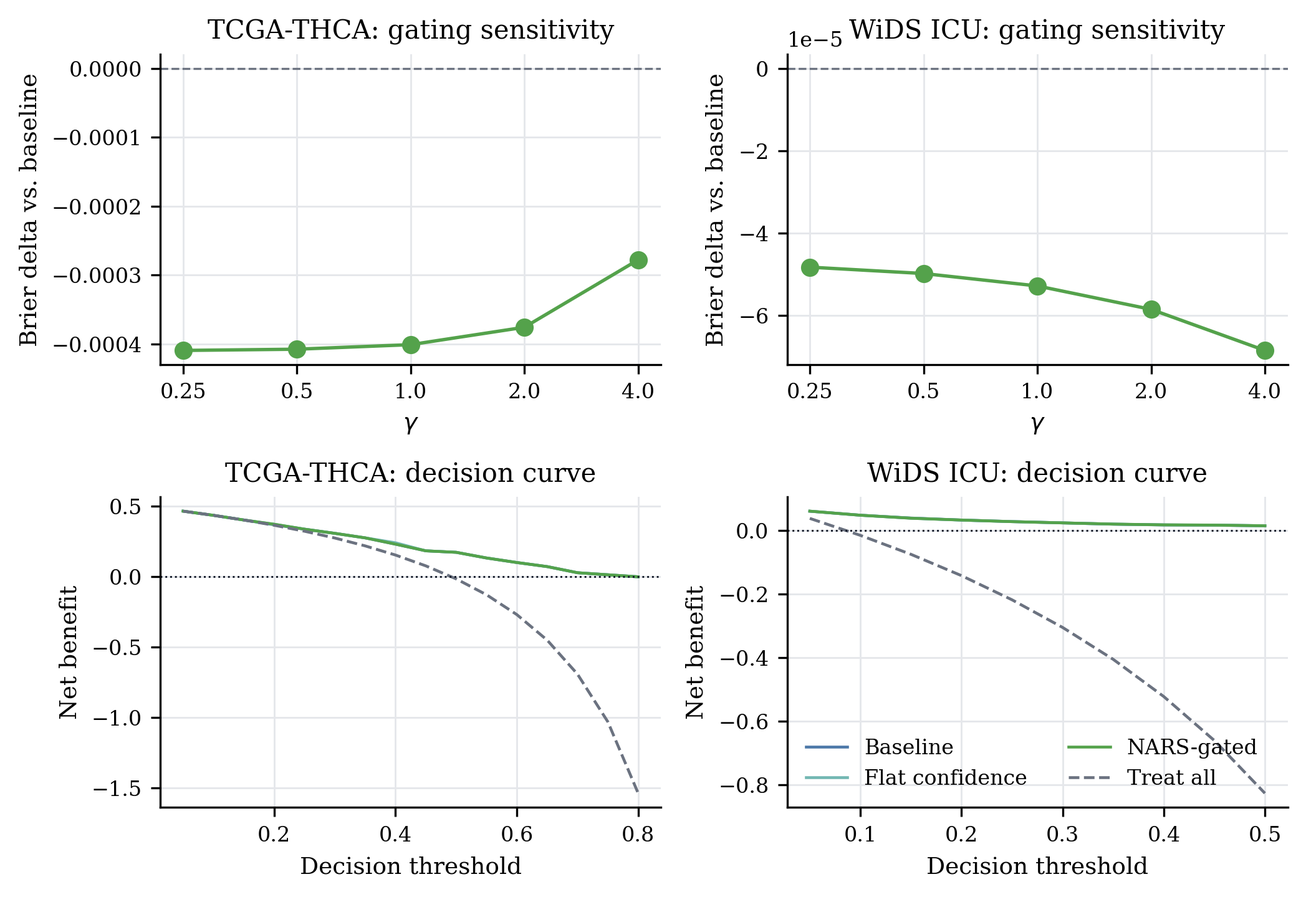
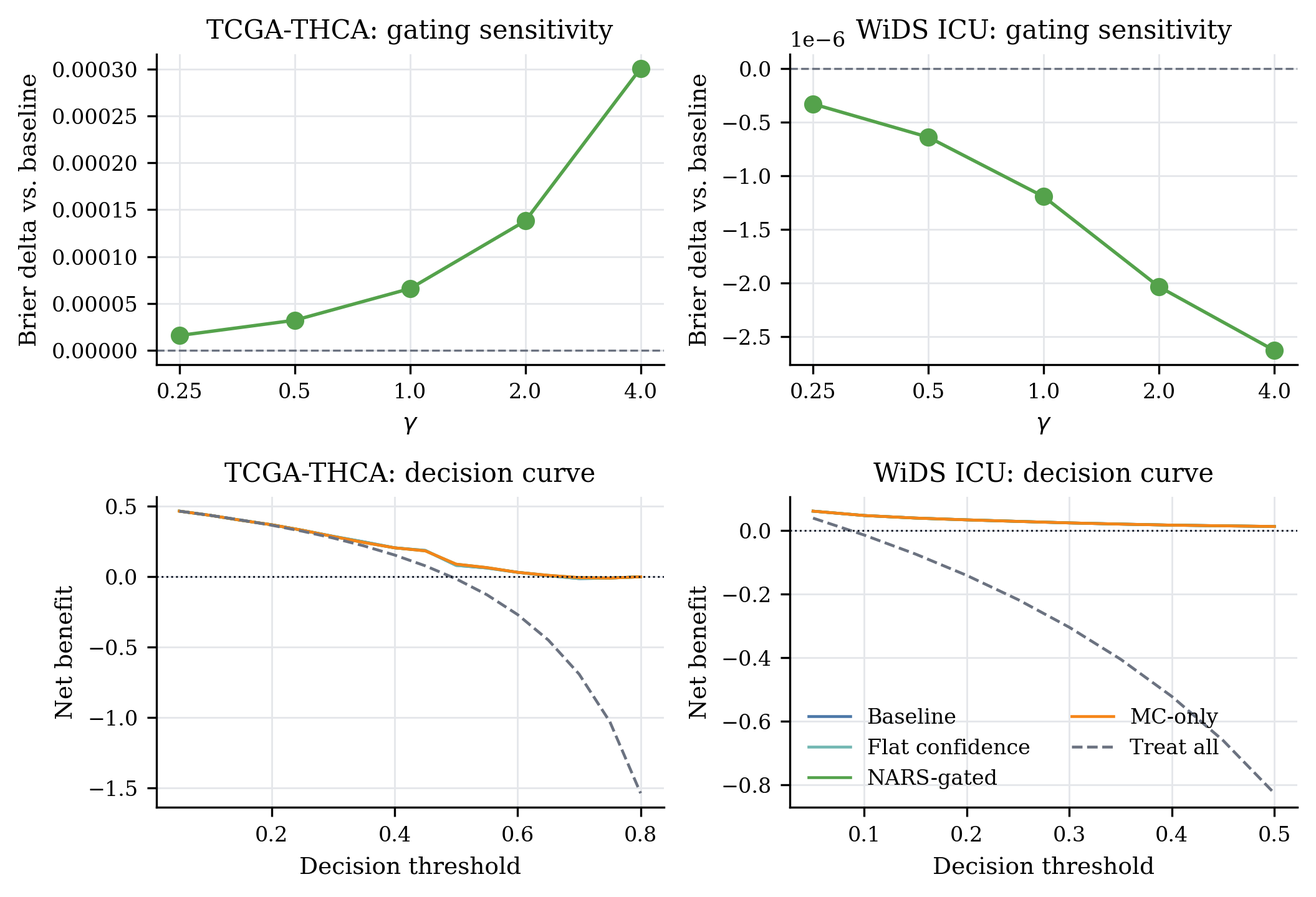
refresh paper with full development results

diff --git a/paper/main.tex b/paper/main.tex
@@ -37,7 +37,7 @@
 \maketitle
 
 \begin{abstract}
-Dynamic evidential routing is an inference-time interface for uncertainty-conditioned symbolic intervention, not a demonstrated clinical performance improvement. Prototype rules revise a heuristic confidence signal used by a transformer readout. A validity audit found that the local TCGA cohort has no recorded mutations in validation or test, and that legacy ungated and gated predictions used different dropout aggregation. Legacy numerical comparisons therefore establish neither held-out genomic fusion nor a gating benefit. The v2 implementation scores all readout gates on identical cached dropout passes, evaluates observed-only predicates, preserves unknown mutation status, and exports every intervention for independent numerical replay. The legacy result tables are retained as descriptive records of the earlier implementation. Population robustness, symbolic necessity, external compatibility, and human oversight benefit require further studies.
+Dynamic evidential routing is an inference-time interface for uncertainty-conditioned symbolic intervention. Prototype rules revise a heuristic confidence signal used by a transformer readout. We evaluate 20 hospital-held-out WiDS fits across two imputers, APACHE inclusion/exclusion, and five training seeds, plus 15 clinical-only, genomic-only, and fused TCGA fits using checksum-pinned public mutation files. Every fit uses matched 50-pass dropout inference with three independent repeats and independently replayable intervention exports. The acquired TCGA test cases include 39 recorded BRAF-positive rule events, while absent variants remain unknown without callable assay evidence. Hierarchical comparisons do not meet the prespecified symbolic Brier benefit of $10^{-4}$; APACHE removal substantially reduces discrimination. Frozen masking and ensemble diagnostics test implementation behavior on development cohorts. External compatibility, clinical rule validity, and reviewer benefit remain unestablished.
 \end{abstract}
 
 \section{Introduction}
@@ -49,7 +49,7 @@ The challenge is that current model components expose different pieces of the pr
 
 We propose dynamic evidential routing as that interface. A neural predictive distribution is first mapped into a two-dimensional truth value $(f,c)$, where frequency $f$ describes the balance of evidence and confidence $c$ describes evidential support \citep{wang1995,wang2006,wang2013}. Explicit clinical rules then revise feature-level truths in the same NAL truth-value space, and the revised confidence values control a normalized attention gate. The signal is a heuristic interface variable; its relationship with errors and evidential support must be measured before it can serve as a trust signal.
 
-We evaluate the interface on two complementary clinical benchmarks. TCGA-THCA exercises a clinical interface, but its held-out mutation inputs contain no recorded positives and cannot test genomic fusion. WiDS exercises scale with feature-specific missingness; the v2 audit measures 10.36\% selected-feature missingness after invalid APACHE probabilities are masked. The contribution is an auditable inference-time interface: neural uncertainty and explicit rules share a truth-value representation, revised confidence can change attention, and the arithmetic is exported. The experiments do not establish a clinical performance improvement, and they do not isolate symbolic revision as the source of any calibration difference.
+We evaluate the interface on two complementary clinical benchmarks. Acquired TCGA-THCA mutation files supply recorded held-out positives, but absence of variants is still unknown without verified callable assays. WiDS exercises scale on held-out hospitals with feature-specific missingness; selected-feature missingness is 10.36\% after invalid APACHE probabilities are masked. The contribution is an auditable inference-time interface: neural uncertainty and explicit rules share a truth-value representation, revised confidence can change attention, and the arithmetic is exported. The experiments do not establish a clinical performance improvement, and they do not isolate symbolic revision as the source of any calibration difference.
 
 Figure~\ref{fig:pipeline} summarizes the inference-time data flow from sparse clinical inputs through uncertainty estimation, NAL-style truth initialization, rule-triggered revision, confidence-gated attention, and trace export.
 
@@ -133,7 +133,7 @@ where $\gamma$ controls the strength of confidence gating. The update preserves 
 
 \subsection{Inference-Time Data Flow}
 
-The inference path has six stages. First, the trained transformer produces a point prediction, feature attention, and token scores. Second, repeated MC-dropout passes estimate predictive and attention variance. Third, the variance-to-confidence initializer in Eq.~\eqref{eq:neural_to_nars} creates feature-level neural truths. Fourth, the symbolic extractor emits every proposition whose condition is true. Fifth, neural and symbolic truths are revised in the shared $(f,c)$ space. Sixth, revised confidence gates attention by Eq.~\eqref{eq:attention_update}; v2 recomputes each cached pass's final logit and averages sigmoid probabilities identically across gate variants, then exports all events. The default intervention changes the token readout, not encoder representations; a separate encoder intervention experiment recomputes those representations. There is no recurrent feedback or convergence loop.
+The inference path has six stages. First, the trained transformer produces a point prediction, feature attention, and token scores. Second, repeated MC-dropout passes estimate predictive and attention variance. Third, the variance-to-confidence initializer in Eq.~\eqref{eq:neural_to_nars} creates feature-level neural truths. Fourth, the symbolic extractor emits every proposition whose condition is true. Fifth, neural and symbolic truths are revised in the shared $(f,c)$ space. Sixth, revised confidence gates attention by Eq.~\eqref{eq:attention_update}; current implementation recomputes each cached pass's final logit and averages sigmoid probabilities identically across gate variants, then exports all events. The default intervention changes the token readout, not encoder representations; a separate encoder intervention experiment recomputes those representations. There is no recurrent feedback or convergence loop.
 
 This staged design keeps the symbolic mechanism outside model training. With $N$ cases, $R$ rule predicates, and $F$ features, predicate evaluation and gating cost $O(NR+NF)$ in the present vectorized implementation. The prototype assigns at most one rule to a logical feature and rejects collisions, so rule ordering cannot silently change a truth value. Larger bases need provenance-aware conflict policies, coverage analysis, and explicit aggregation of compatible or contradictory evidence before same-feature multi-rule revision can be supported.
 
@@ -150,15 +150,15 @@ For a neural estimate $p=0.8$, $\sigma^2=0.05$, and a fired prototype rule $(f_{
 \section{Experimental Setup}
 \label{sec:experiments}
 
-The following setup describes the legacy v1 results; v2 changes preprocessing, split policy, and aggregation. We evaluated two benchmarks with different roles. TCGA-THCA predicts lymph-node metastasis from clinical and somatic-mutation features but the held-out data do not contain genomic observations and cannot test clinical-genomic fusion. The labeled cohort contains 457 cases split into 319 training, 69 validation, and 69 held-out test cases. The processed input has 105 dimensions: 5 scaled clinical numeric features, 50 binary mutation indicators, and 50 one-hot clinical categorical features.
+The current development evaluation fixes source hashes, partitions, rules, and training settings before each fit. WiDS contains 91,713 labeled stays with 65,737 training, 11,751 validation, and 14,225 held-out cases; patient, hospital, and ICU identifiers are disjoint across partitions. Five training seeds are evaluated under each combination of KNN or median imputation and APACHE included or excluded, yielding 20 fits. Removing APACHE leaves 15 encoded features instead of 16; score-only comparators remain available as controls.
 
-WiDS Datathon 2020 predicts in-hospital mortality for ICU encounters and is the primary scale exercise with feature-specific missingness. The run uses 91,713 labeled stays split into 64,199 training, 13,757 validation, and 13,757 held-out test stays, with 16 model input features after preprocessing.
+TCGA contains 457 labeled cases with 319 training, 69 validation, and 69 held-out cases. An immutable GDC manifest pins 498 mutation files by publisher UUID, checksum, and case coverage; 16 expected clinical cases lack file-associated coverage. The fused input has 55 clinical and 100 genomic/unknown-indicator dimensions. Clinical-only, genomic-only, and fused inputs each receive five training seeds with identical partitions. Unknown mutation calls are not converted to negatives; no complete callable panel is verified. This is retrospective post-pathology association, and source-level measurement chronology is unresolved.
 
-All transformer variants use the same trained base architecture: $d_{\text{model}}=64$, four attention heads, two encoder layers, and 50 MC-dropout passes for uncertainty estimation. We compare a random forest, a baseline transformer, flat-confidence gating with $c=0.5$, MC-confidence-only gating, and NARS-gated symbolic revision. Metrics are AUC, Brier score, expected calibration error (ECE), and accuracy. Bootstrap confidence intervals are reported for AUC, Brier, and ECE.
+All fits use $d_{\mathrm{model}}=64$, four heads, two encoder layers, at most 60 epochs, and validation early stopping with patience 12. Each fit has 50 matched MC-dropout passes and three independent inference repeats. Calibration and classical-model selection use validation data only. These already inspected cohorts constitute development evaluation, not prospective confirmation or independent-cohort validation.
 
 \subsection{Baselines and Controls}
 
-The baseline transformer tests whether the underlying neural architecture is competitive before confidence gating is introduced. A uniform normalized readout gate cancels mathematically. Under matched v2 aggregation it must reproduce ungated predictions within $10^{-7}$. The legacy flat-control differences arise from aggregation, not from adding a gate. The MC-confidence-only ablation uses the neural variance-derived confidence but does not apply symbolic revision. The NARS-gated model adds the symbolic rule path on top of the MC-confidence initializer. This ordering is important: a difference from the baseline alone is not enough to show that symbolic reasoning helped, because confidence gating or regularization may explain the change.
+The baseline transformer tests whether the underlying neural architecture is competitive before confidence gating is introduced. A uniform normalized readout gate cancels mathematically. Under matched current implementation aggregation it must reproduce ungated predictions within $10^{-7}$. The legacy flat-control differences arise from aggregation, not from adding a gate. The MC-confidence-only ablation uses the neural variance-derived confidence but does not apply symbolic revision. The NARS-gated model adds the symbolic rule path on top of the MC-confidence initializer. This ordering is important: a difference from the baseline alone is not enough to show that symbolic reasoning helped, because confidence gating or regularization may explain the change.
 
 The random forest baseline addresses the common tabular-learning concern that tree ensembles can be strong competitors on structured clinical features. It is trained on the same split and post-preprocessing design matrix, so differences cannot be attributed to a different data representation.
 
@@ -166,9 +166,9 @@ The random forest baseline addresses the common tabular-learning concern that tr
 
 Tables~\ref{tab:tcga_results} and \ref{tab:wids_results} do not isolate symbolic revision. The evaluation contract now rescores NAL revision after four changes to the symbolic input: removing every rule, removing one rule at a time, permuting rule assignments across patients, replacing symbolic truth values with random draws, and substituting fixed symbolic priors. Rule removal must reproduce MC-confidence-only gating. Sensitivity scales symbolic confidence and recomputes revision; it does not retune the transformer on test labels. A claim that the symbolic component improves prediction would require the stated rules to separate from MC-confidence-only gating and from these controls. That separation is not a result of the saved runs.
 
-The saved runs still initialize uncertainty with single-seed MC dropout. The implementation can also train a deep ensemble over seeds and compare MC-dropout variance, Bernoulli predictive entropy, and ensemble variance, including how each score ranks threshold errors. Those comparisons are not in the tables.
+Each condition now has a five-model ensemble, MC-dropout variance, predictive entropy, confidence-error diagnostics, and tie-aware selective-risk curves. Common ensemble prediction errors provide the same reference for comparing uncertainty estimators. Hospital, training-seed, and dropout-repeat resampling distinguish these sources of variability; the fixed split does not estimate variability across cohort selections.
 
-Each rule now carries a source note, a provenance identifier, an expert-review status, and a contradiction group. The current predicates are prototype probes and are marked not reviewed. Two rules that share a contradiction group and a target feature are rejected rather than overwritten. No independent cohort is evaluated here. A distribution-shift check can mask encoded features while holding the trained model, preprocessing, rules, gate, and decision threshold fixed. That check is a compatibility test under shift, not external clinical validation.
+Each rule now carries a source note, a provenance identifier, an expert-review status, and a contradiction group. The current predicates are prototype probes and are marked not reviewed. Two rules that share a contradiction group and a target feature are rejected rather than overwritten. No independent cohort is evaluated here. The distribution-shift study masks originally observed raw values at 0, 10, 30, 50, and 70 percent before frozen preprocessing, rule extraction, and matched inference. Random, feature-dependent, and explicitly labeled outcome-dependent simulations share masks across methods. That check is a compatibility test under shift, not external clinical validation.
 
 \subsection{Rule Bases}
 
@@ -188,12 +188,37 @@ The paper therefore separates three evidential claims. First, whether the archit
 
 The public repository exposes a single entrypoint for running both dataset branches and producing dataset-scoped metrics, traces, plots, and an aggregate run summary. The paper text reports the split sizes, input dimensions, architecture, MC-dropout count, and baselines needed to interpret the results. The code is still necessary for exact reproduction because preprocessing, imputation, categorical encoding, and rule extraction are implementation-sensitive.
 
-In v2, imputation, standardization, categorical encoding, sparse-column filtering, and mutation-panel selection fit training data only. Legacy sparse filtering and panel selection occurred before splitting. Unknown gene calls now have explicit missing indicators; confirmed negative calls require sourced case/gene assay coverage. TCGA selects one physical record per source table and exports conflicts, but cross-table chronology is unverified; its landmark is retrospective post-pathology association, not preoperative prediction. The rule extractor is also run only at inference time, so symbolic rules do not alter the supervised training objective.
+In current implementation, imputation, standardization, categorical encoding, sparse-column filtering, and mutation-panel selection fit training data only. Legacy sparse filtering and panel selection occurred before splitting. Unknown gene calls now have explicit missing indicators; confirmed negative calls require sourced case/gene assay coverage. TCGA selects one physical record per source table and exports conflicts, but cross-table chronology is unverified; its landmark is retrospective post-pathology association, not preoperative prediction. The rule extractor is also run only at inference time, so symbolic rules do not alter the supervised training objective.
+
+
+\section{Current Development Results}
+\label{sec:current_results}
+
+\input{figures/current_results.tex}
+
+The seven conditions in Table~\ref{tab:current_symbolic} do not establish the planned symbolic benefit. WiDS KNN NARS-minus-MC Brier is $-2.43\times10^{-7}$ with hierarchical 95\% interval $[-6.91\times10^{-7},1.64\times10^{-7}]$. TCGA fused routing has a positive mean difference of $1.26\times10^{-5}$, with an interval spanning zero. Direct confidence boosts, frequency sensitivity, individual/all-rule removal, 100 predicate permutations, shuffled confidence assignments, and matched irrelevant predicates are retained as symbolic controls. Revised frequency does not determine the confidence gate, and shared input measurements do not establish independent evidence.
+
+Mean WiDS ungated AUROC is 0.875721 with KNN and APACHE, versus 0.841118 without APACHE; median yields 0.874062 versus 0.842176. Paired hospital-and-seed contrasts preserve common test cases and report multiplicity-adjusted intervals. Boosting beats the median transformer in mean Brier, and validation recalibration can exceed the small routing effects. These results expose dependence on an existing mortality score rather than establish added clinical value over the strongest comparator. Authoritative APACHE sentinel semantics and timestamp availability remain unverified.
+
+The acquired TCGA held-out panel has recorded positives in 50 of 69 cases and produces 39 BRAF, 29 T-stage, 24 extension, and 21 age events per seed. All 113 events are exported; 89 map to fitted features and 24 are explicitly unmapped. WiDS observed-only rules produce 11,457 mapped events in 8,152 of 14,225 cases per seed. Numerical replay validates predicates, truth revision, gates, probabilities, and rule-off effects; it does not certify the clinical predicates. Seed rows reuse the same cases and must not be combined as independent patient counts.
+
+\input{figures/generated_auditability_table.tex}
+
+\begin{figure}[t]
+\centering
+\includegraphics[width=\linewidth]{figures/figure-2-performance-ci.png}
+\caption{Current five-seed mean Brier scores with 95\% Student-$t$ intervals over training seeds on fixed held-out cases. These are seed-mean intervals, not case-bootstrap intervals or external confirmation.}
+\label{fig:performance_ci}
+\end{figure}
+
+Controlled missingness outputs preserve frozen preprocessing, rules, model weights, and matched dropout inference. Per-fit paired intervals test integrated degradation and the 0.001 per-mask harm margin; uncertainty diagnostics include error-detection AUROC and selective-risk area with hospital-clustered intervals. The criterion passes in 12 of 15 median seed/scenario combinations and 1 of 15 KNN combinations; no KNN random or feature-dependent scenario passes. This does not establish general routing robustness. Outcome-dependent masks are simulations, not observed missingness mechanisms, and numerical acceptance under a particular simulation does not establish population robustness.
+
+The reviewer protocol, balanced format assignments, investigator fault key, power sensitivity, and crossed reviewer/case analysis are implemented as a demonstration package. No participants were recruited and no human benefit is claimed. Its public fault key requires regeneration into a private study package before real recruitment. External evaluation similarly requires a documented independent cohort with matched units, windows, outcomes, and patient identities; no such cohort was supplied.
 
 \section{Legacy Results and Validity Audit}
 \label{sec:results}
 
-All numerical tables and performance figures below describe the legacy v1 run, not the corrected v2 procedure. They use unmatched prediction aggregation and an internal row split. Only two TCGA training cases have recorded mutation inputs; validation and test contain none. No genomic held-out intervention was demonstrated. Close point estimates establish neither equivalence nor noninferiority. Short v2 integration runs validate software execution only and do not replace these results with new clinical evidence.
+The two numerical tables in this legacy section describe the archived implementation; current performance figures and generated auditability tables are reported separately above. They use unmatched prediction aggregation and an internal row split. Only two TCGA training cases have recorded mutation inputs; validation and test contain none. No genomic held-out intervention was demonstrated. Close point estimates establish neither equivalence nor noninferiority. The short integration artifacts remain software checks; the full development studies above replace the historical runs as current numerical evidence without turning them into prospective confirmation.
 
 On TCGA-THCA, the transformer variants remain tightly clustered. Flat-confidence has the highest AUC at 0.7328 and the lowest Brier point estimate at the displayed precision; the 69-case test split does not statistically separate variants. TCGA therefore provides a limited clinical interface exercise; it does not establish held-out multimodal feasibility or symbolic-gating superiority.
 
@@ -220,7 +245,7 @@ The legacy TCGA clinical rules were active, but the BRAF rule never fired on tes
 
 WiDS provides the clearer scale test. All transformer variants have higher AUC point estimates than the random forest in this run, although their AUC confidence intervals overlap. Within the transformer family, the baseline has the highest AUC, while MC-confidence-only has the numerically lowest Brier and ECE point estimates. NARS-gated is nearly identical to MC-confidence-only and ties it and flat-confidence on accuracy at the reported precision.
 
-Figure~\ref{fig:performance_ci} visualizes the Brier-score intervals for both benchmarks. The overlap among transformer variants is large, especially on TCGA, reinforcing the interpretation that the current evidence supports operational compatibility rather than a separated performance claim.
+The archived intervals below describe the earlier calculation. Figure~\ref{fig:performance_ci} instead uses the explicitly selected current five-seed sources, so its values must not be compared to these legacy intervals as a controlled experiment.
 
 \begin{table}[t]
 \caption{Held-out WiDS ICU performance for hospital mortality prediction. Point estimates are followed by 95\% bootstrap confidence intervals where shown.}
@@ -241,19 +266,9 @@ NARS-gated & 0.8802 [0.8698, 0.8901] & 0.05647 [0.05365, 0.05962] & 0.00583 [0.0
 \end{tabular}
 \end{table}
 
-\begin{figure}[t]
-\centering
-\includegraphics[width=\linewidth]{figures/figure-2-performance-ci.png}
-\caption{Held-out Brier scores with 95\% bootstrap confidence intervals. Lower values are better. The transformer variants are close, so small point-estimate differences should be interpreted as descriptive unless corroborated by additional comparisons.}
-\label{fig:performance_ci}
-\end{figure}
 
-The symbolic pathway operated at scale: ICU rules fired on 8,551 of 13,757 held-out stays, with 13,031 feature-level revisions. The per-rule counts were 1,936 for lactate, 5,338 for hypotension, 3,443 for age, and 2,314 for creatinine. Every fired rule mapped to a feature, produced a finite trace, and changed confidence and attention. The corresponding TCGA rates were also 100\% across 79 events in 42 of 69 cases. The legacy zero revision residual reused production arithmetic and was a consistency check. Its finite in-memory values did not establish complete persisted event export. WiDS counts included imputed-value triggers; v2 suppresses these and independently replays every exported event.
 
-\IfFileExists{figures/generated_auditability_table.tex}{
-\input{figures/generated_auditability_table.tex}
-Table~\ref{tab:auditability} evaluates operational auditability over every held-out rule event. Mapping coverage asks whether a fired proposition reached a model feature; completeness asks whether all values needed for inspection are finite; and legacy residuals reuse production revision arithmetic and recompute normalized gating; these are consistency checks. Among triggered cases, the mean absolute baseline-to-NARS probability change was 0.00205 on TCGA and 0.00214 on WiDS, with maxima of 0.00600 and 0.03102. No triggered TCGA case crossed the 0.5 threshold, while 10 triggered WiDS cases did. These are system-fidelity checks, not evidence that clinicians find the traces useful or that a changed decision is clinically correct.
-}{}
+The symbolic pathway operated at scale: ICU rules fired on 8,551 of 13,757 held-out stays, with 13,031 feature-level revisions. The per-rule counts were 1,936 for lactate, 5,338 for hypotension, 3,443 for age, and 2,314 for creatinine. Every fired rule mapped to a feature, produced a finite trace, and changed confidence and attention. The corresponding TCGA rates were also 100\% across 79 events in 42 of 69 cases. The legacy zero revision residual reused production arithmetic and was a consistency check. Its finite in-memory values did not establish complete persisted event export. WiDS counts included imputed-value triggers; current implementation suppresses these and independently replays every exported event.
 
 \subsection{Case-Level Rule Trace}
 
@@ -261,7 +276,7 @@ The legacy prediction export provides a concrete held-out example. For WiDS enco
 
 \subsection{Calibration Interpretation}
 
-The legacy WiDS calibration differences are descriptive and confounded by aggregation. Relative to the ungated transformer, NARS-gated routing lowers Brier by 0.0000587 with a paired 95\% interval of [0.0000249, 0.0000911], and lowers ECE by 0.00120 with an interval of [0.0000282, 0.00202]. Both intervals exclude zero. Relative to flat-confidence and MC-confidence-only gating, however, the paired Brier and ECE intervals include zero; MC-confidence-only also has the slightly better Brier and ECE point estimates. The baseline and gated predictions use different aggregation, so even a confidence-gating benefit cannot be isolated from this run. The legacy reported deltas are bootstrap means rather than the required observed effect sizes; the v2 exporter distinguishes them.
+The legacy WiDS calibration differences are descriptive and confounded by aggregation. Relative to the ungated transformer, NARS-gated routing lowers Brier by 0.0000587 with a paired 95\% interval of [0.0000249, 0.0000911], and lowers ECE by 0.00120 with an interval of [0.0000282, 0.00202]. Both intervals exclude zero. Relative to flat-confidence and MC-confidence-only gating, however, the paired Brier and ECE intervals include zero; MC-confidence-only also has the slightly better Brier and ECE point estimates. The baseline and gated predictions use different aggregation, so even a confidence-gating benefit cannot be isolated from this run. The legacy reported deltas are bootstrap means rather than the required observed effect sizes; the current implementation exporter distinguishes them.
 
 That restraint keeps the contribution aligned with what the experiment actually supports. Dynamic evidential routing should not be described as a universal calibration booster. The supported implementation claim is that explicit rules can change a heuristic confidence readout. Robustness, predictive compatibility, and useful auditability require corrected experiments.
 
@@ -271,7 +286,7 @@ That restraint keeps the contribution aligned with what the experiment actually 
 The flat-confidence and MC-confidence-only controls are essential for interpreting the result. If NARS-gated attention were compared only with the baseline transformer, its paired Brier and ECE differences could be over-interpreted as a symbolic reasoning effect. Those controls neither isolate symbolic revision nor establish a gating effect while aggregation differs. The NARS rule path is therefore best interpreted as an instrumentation layer with inspectable numerical activity and editable prototype rules, not yet a statistically isolated source of within-family calibration change.
 
 \IfFileExists{figures/figure-3-ablation.png}{
-Figure~\ref{fig:ablation} reports the gamma sweeps and decision curves rather than treating them as future experiments. Across $\gamma\in\{0.25,0.5,1,2,4\}$, Brier deltas remain small. On WiDS, stronger gating monotonically lowers the Brier point estimate relative to baseline, reaching a delta of $-6.85\times10^{-5}$ at $\gamma=4$, while AUC deltas remain slightly negative. On TCGA, all five Brier deltas are negative but the small split gives no separated superiority regime. Decision curves likewise show closely overlapping transformer variants with modest threshold-dependent differences.
+Figure~\ref{fig:ablation} uses the current five-seed TCGA fused and WiDS KNN sources. Gamma sweeps and decision curves are descriptive development diagnostics; no gamma is selected using test outcomes, and overlapping net-benefit curves do not establish clinical utility.
 \begin{figure}[t]
 \centering
 \includegraphics[width=\linewidth]{figures/figure-3-ablation.png}
@@ -288,7 +303,7 @@ The current system remains a methods prototype rather than a clinical decision d
 \section{Limitations}
 \label{sec:limitations}
 
-The current evidence is a methods evaluation, not a clinical validation study. TCGA has only 69 held-out cases, the legacy WiDS run uses an internal row split rather than an external cohort; v2 supports patient- and hospital-disjoint confirmation, and both rule bases are prototype probes that have not received expert review. Ensemble and frozen-shift comparisons are implemented, but they are not results in the reported tables. The neural-to-NAL initializer can also over-trust a prediction when MC dropout underestimates uncertainty under shift; future work should compare ensembles and shift-aware estimators on temporally or institutionally independent cohorts.
+The current evidence is a methods development evaluation, not a clinical validation study. TCGA has only 69 held-out cases; WiDS holds out hospitals within one benchmark, which does not supply an independent external institution cohort. Both rule bases remain prototype probes without expert review. Ensemble and frozen raw-masking outputs are retained, while cohort-selection uncertainty and prospective confirmation remain unmeasured. The neural-to-NAL initializer can also over-trust a prediction when MC dropout underestimates uncertainty under shift; future work should compare ensembles and shift-aware estimators on temporally or institutionally independent cohorts.
 
 Finally, the repository implements NAL truth-value functions and feature-level rule revision, but not the complete NARS architecture. It does not maintain concept priority dynamics, task scheduling, or explicit evidential-base records. The claims should therefore be read as interface-level claims about truth-value-guided fusion and attention control.
 

diff --git a/scripts/refresh_paper_results.py b/scripts/refresh_paper_results.py
@@ -1,0 +1,54 @@
+"""Generate manuscript tables from completed, independently replayed studies."""
+import json
+from pathlib import Path
+import sys
+
+import pandas as pd
+
+sys.path.insert(0,str(Path(__file__).resolve().parents[1]))
+
+CONDITIONS={
+    "WiDS KNN":"results/hospital_study/knn",
+    "WiDS median":"results/hospital_study/median",
+    "WiDS KNN, no APACHE":"results/hospital_study/knn_no_apache",
+    "WiDS median, no APACHE":"results/hospital_study/median_no_apache",
+    "TCGA fused":"results/tcga_study/fused",
+    "TCGA clinical":"results/tcga_study/clinical",
+    "TCGA genomic":"results/tcga_study/genomic",
+}
+
+
+def refresh():
+    records=[]
+    hierarchy=[]
+    for condition,root in CONDITIONS.items():
+        frame=pd.read_csv(Path(root)/"analysis/seed_variability.csv")
+        for variant in ("baseline","mc_confidence_only","nars_gated","hist_gradient_boosting","transformer_recalibrated"):
+            row=frame.set_index("variant").loc[variant]
+            records.append(dict(condition=condition,variant=variant,auc=row.auc_mean,brier=row.brier_mean,
+                brier_seed_std=row.brier_std))
+        report=json.loads((Path(root)/"analysis/hierarchical_symbolic_comparison.json").read_text())
+        hierarchy.append(dict(condition=condition,**report))
+    root=Path("paper/figures")
+    root.mkdir(exist_ok=True)
+    pd.DataFrame(records).to_csv(root/"current_results.csv",index=False)
+    labels={"baseline":"Ungated","mc_confidence_only":"MC-only","nars_gated":"NARS","hist_gradient_boosting":"Boosting","transformer_recalibrated":"Recalibrated"}
+    lines=[r"\begin{table}[t]",r"\caption{Current development evaluation: five training seeds per condition on fixed held-out cases. Brier values are means with seed standard deviations, not case-bootstrap confidence intervals. The APACHE score remains a score-only comparator when removed from predictor inputs.}",
+        r"\label{tab:current_results}",r"\centering\scriptsize",r"\setlength{\tabcolsep}{4pt}",r"\begin{tabular}{@{}llcc@{}}",r"\toprule",r"Condition & Variant & AUROC & Brier (seed SD) \\",r"\midrule"]
+    for record in records:
+        if record["condition"] not in ("WiDS KNN","TCGA fused"):
+            continue
+        lines.append(f'{record["condition"]} & {labels[record["variant"]]} & {record["auc"]:.6f} & {record["brier"]:.6f} ({record["brier_seed_std"]:.6f}) '+r"\\")
+    lines += [r"\bottomrule",r"\end{tabular}",r"\end{table}",r"\begin{table}[t]",r"\caption{Matched symbolic contrasts, NARS-minus-MC Brier, with hierarchical 95\% intervals over cases/hospitals, training seeds, and three dropout repeats. Negative is better. These development comparisons do not meet the prespecified $10^{-4}$ minimum benefit.}",r"\label{tab:current_symbolic}",r"\centering\scriptsize",r"\setlength{\tabcolsep}{3pt}",r"\begin{tabular}{@{}lrrr@{}}",r"\toprule",r"Condition & Difference & Lower & Upper \\",r"\midrule"]
+    for row in hierarchy:
+        lines.append(f'{row["condition"]} & {row["brier_nars_minus_mc"]:.2e} & {row["lower_95"]:.2e} & {row["upper_95"]:.2e} '+r"\\")
+    lines += [r"\bottomrule",r"\end{tabular}",r"\end{table}"]
+    (root/"current_results.tex").write_text("\n".join(lines)+"\n")
+    (root/"current_results_manifest.json").write_text(json.dumps(dict(conditions=CONDITIONS,
+        training_seeds=list(range(5)),mc_samples=50,mc_repeats=3,
+        scope="fixed development splits; no prospective or independent-cohort confirmation"),indent=2))
+    return records,hierarchy
+
+
+if __name__=="__main__":
+    refresh()

diff --git a/src/paper_figures.py b/src/paper_figures.py
@@ -324,7 +324,7 @@ def _write_rule_table(figures_dir: Path) -> None:
         ]
     )
     figures_dir.mkdir(parents=True, exist_ok=True)
-    (figures_dir / "generated_rule_table.tex").write_text(content, encoding="utf-8")
+    (figures_dir / "generated_rule_table.tex").write_text("\n".join(line.rstrip() for line in content.split("\n")), encoding="utf-8")
 
 
 def _write_auditability_table(dataset_dirs: dict[str, Path], figures_dir: Path) -> None:
@@ -342,8 +342,8 @@ def _write_auditability_table(dataset_dirs: dict[str, Path], figures_dir: Path) 
     for dataset, path in audit_paths:
         audit = json.loads(path.read_text(encoding="utf-8"))
         rows.append(
-            f"{dataset} & {audit['cases_with_any_trigger']:,}/{audit['held_out_cases']:,} "
-            f"({100 * audit['case_coverage']:.1f}\\%) & {audit['mapped_feature_trigger_count']:,} & "
+            f"{_latex_escape(dataset)} & {audit['cases_with_any_trigger']:,}/{audit['held_out_cases']:,} "
+            f"({100 * audit['case_coverage']:.1f}\\%) & {audit['total_rule_trigger_count']:,} ({audit['mapped_feature_trigger_count']:,}) & "
             f"{100 * audit['finite_trace_rate']:.1f}\\% & "
             f"{100 * audit['confidence_changed_event_rate']:.1f}\\% & "
             f"{audit['threshold_flip_count_triggered']:,} & "
@@ -353,14 +353,14 @@ def _write_auditability_table(dataset_dirs: dict[str, Path], figures_dir: Path) 
         [
             "% Auto-generated by src.paper_figures.generate_paper_figures.",
             "\\begin{table}[t]",
-            "\\caption{Operational auditability for each training seed on the same held-out cohort. Rows repeat cases across fits and must not be added. Completeness and residuals measure numerical fidelity, not clinician usability or rule validity.}",
+            "\\caption{Operational auditability for each training seed on the same held-out cohort. Events include unmapped triggers; finite values and confidence changes refer to mapped events. Rows repeat cases across fits and must not be added. Residuals measure numerical fidelity, not clinician usability or rule validity.}",
             "\\label{tab:auditability}",
             "\\centering",
             "\\scriptsize",
             "\\setlength{\\tabcolsep}{3pt}",
             "\\begin{tabular}{@{}lrrrrrr@{}}",
             "\\toprule",
-            "Data & Cases covered & Events & Complete & $c$ changed & Flips & Max residual \\\\ ",
+            "Data & Cases covered & All (mapped) & Finite & $c$ changed & Flips & Max residual \\\\ ",
             "\\midrule",
             *rows,
             "\\bottomrule",
@@ -370,7 +370,7 @@ def _write_auditability_table(dataset_dirs: dict[str, Path], figures_dir: Path) 
         ]
     )
     figures_dir.mkdir(parents=True, exist_ok=True)
-    (figures_dir / "generated_auditability_table.tex").write_text(content, encoding="utf-8")
+    (figures_dir / "generated_auditability_table.tex").write_text("\n".join(line.rstrip() for line in content.split("\n")), encoding="utf-8")
 
 
 def generate_paper_figures(

diff --git a/paper/figures/generated_auditability_table.tex b/paper/figures/generated_auditability_table.tex
@@ -1,16 +1,24 @@
 % Auto-generated by src.paper_figures.generate_paper_figures.
 \begin{table}[t]
-\caption{Operational auditability on held-out cases. Completeness and residuals test whether traces faithfully expose the implemented arithmetic; they do not measure clinician usability or rule validity.}
+\caption{Operational auditability for each training seed on the same held-out cohort. Events include unmapped triggers; finite values and confidence changes refer to mapped events. Rows repeat cases across fits and must not be added. Residuals measure numerical fidelity, not clinician usability or rule validity.}
 \label{tab:auditability}
 \centering
 \scriptsize
 \setlength{\tabcolsep}{3pt}
 \begin{tabular}{@{}lrrrrrr@{}}
 \toprule
-Data & Cases covered & Events & Complete & $c$ changed & Flips & Max residual \\ 
+Data & Cases covered & All (mapped) & Finite & $c$ changed & Flips & Max residual \\
 \midrule
-TCGA-THCA & 42/69 (60.9\%) & 79 & 100.0\% & 100.0\% & 0 & 0.0e+00 \\
-WiDS ICU & 8,551/13,757 (62.2\%) & 13,031 & 100.0\% & 100.0\% & 10 & 0.0e+00 \\
+TCGA-THCA seed\_0 & 56/69 (81.2\%) & 113 (89) & 100.0\% & 100.0\% & 0 & 4.4e-16 \\
+TCGA-THCA seed\_1 & 56/69 (81.2\%) & 113 (89) & 100.0\% & 100.0\% & 0 & 4.4e-16 \\
+TCGA-THCA seed\_2 & 56/69 (81.2\%) & 113 (89) & 100.0\% & 100.0\% & 2 & 4.4e-16 \\
+TCGA-THCA seed\_3 & 56/69 (81.2\%) & 113 (89) & 100.0\% & 100.0\% & 0 & 4.4e-16 \\
+TCGA-THCA seed\_4 & 56/69 (81.2\%) & 113 (89) & 100.0\% & 100.0\% & 0 & 4.4e-16 \\
+WiDS ICU seed\_0 & 8,152/14,225 (57.3\%) & 11,457 (11,457) & 100.0\% & 100.0\% & 3 & 3.3e-16 \\
+WiDS ICU seed\_1 & 8,152/14,225 (57.3\%) & 11,457 (11,457) & 100.0\% & 100.0\% & 2 & 4.4e-16 \\
+WiDS ICU seed\_2 & 8,152/14,225 (57.3\%) & 11,457 (11,457) & 100.0\% & 100.0\% & 3 & 4.4e-16 \\
+WiDS ICU seed\_3 & 8,152/14,225 (57.3\%) & 11,457 (11,457) & 100.0\% & 100.0\% & 0 & 4.4e-16 \\
+WiDS ICU seed\_4 & 8,152/14,225 (57.3\%) & 11,457 (11,457) & 100.0\% & 100.0\% & 1 & 4.4e-16 \\
 \bottomrule
 \end{tabular}
 \end{table}

diff --git a/paper/figures/current_results.tex b/paper/figures/current_results.tex
@@ -1,0 +1,41 @@
+\begin{table}[t]
+\caption{Current development evaluation: five training seeds per condition on fixed held-out cases. Brier values are means with seed standard deviations, not case-bootstrap confidence intervals. The APACHE score remains a score-only comparator when removed from predictor inputs.}
+\label{tab:current_results}
+\centering\scriptsize
+\setlength{\tabcolsep}{4pt}
+\begin{tabular}{@{}llcc@{}}
+\toprule
+Condition & Variant & AUROC & Brier (seed SD) \\
+\midrule
+WiDS KNN & Ungated & 0.875721 & 0.057830 (0.000109) \\
+WiDS KNN & MC-only & 0.875711 & 0.057828 (0.000112) \\
+WiDS KNN & NARS & 0.875713 & 0.057828 (0.000112) \\
+WiDS KNN & Boosting & 0.873278 & 0.057864 (0.000156) \\
+WiDS KNN & Recalibrated & 0.875721 & 0.057782 (0.000145) \\
+TCGA fused & Ungated & 0.692941 & 0.229410 (0.009980) \\
+TCGA fused & MC-only & 0.692101 & 0.229534 (0.010085) \\
+TCGA fused & NARS & 0.692101 & 0.229548 (0.010068) \\
+TCGA fused & Boosting & 0.661345 & 0.243924 (0.000000) \\
+TCGA fused & Recalibrated & 0.692941 & 0.226140 (0.008783) \\
+\bottomrule
+\end{tabular}
+\end{table}
+\begin{table}[t]
+\caption{Matched symbolic contrasts, NARS-minus-MC Brier, with hierarchical 95\% intervals over cases/hospitals, training seeds, and three dropout repeats. Negative is better. These development comparisons do not meet the prespecified $10^{-4}$ minimum benefit.}
+\label{tab:current_symbolic}
+\centering\scriptsize
+\setlength{\tabcolsep}{3pt}
+\begin{tabular}{@{}lrrr@{}}
+\toprule
+Condition & Difference & Lower & Upper \\
+\midrule
+WiDS KNN & -2.43e-07 & -6.91e-07 & 1.64e-07 \\
+WiDS median & -4.04e-07 & -1.19e-06 & 5.79e-07 \\
+WiDS KNN, no APACHE & -1.68e-07 & -4.31e-07 & 3.11e-07 \\
+WiDS median, no APACHE & -2.35e-07 & -7.85e-07 & 6.53e-07 \\
+TCGA fused & 1.26e-05 & -5.69e-05 & 1.06e-04 \\
+TCGA clinical & 2.63e-05 & -5.74e-05 & 1.33e-04 \\
+TCGA genomic & -1.04e-05 & -4.35e-05 & 8.06e-06 \\
+\bottomrule
+\end{tabular}
+\end{table}

diff --git a/paper/figures/generated_rule_table.tex b/paper/figures/generated_rule_table.tex
@@ -7,11 +7,11 @@
 \setlength{\tabcolsep}{2pt}
 \begin{tabular}{@{}llp{0.22\linewidth}cp{0.42\linewidth}@{}}
 \toprule
-Data & Rule & Trigger condition & $(f,c)$ & Clinical reading \\ 
+Data & Rule & Trigger condition & $(f,c)$ & Clinical reading \\
 \midrule
 TCGA & BRAF mutation & BRAF mutation indicator = 1 & $(0.85,0.75)$ & The rule increases support for the BRAF feature when the mutation is recorded; it is not a validated risk probability. \\
 TCGA & Age >= 55 & age at diagnosis >= 55 years & $(0.70,0.60)$ & The rule raises evidential support for the age feature without asserting that age alone determines metastasis. \\
-TCGA & Pathologic T3/T4 & pathologic T category starts with T3 or T4 & $(0.90,0.85)$ & The rule increases support for the observed staging feature; it does not establish nodal spread by itself. \\
+TCGA & Pathologic T3/T4 & pathologic T category is T3, T3a, T3b, T4, T4a, or T4b & $(0.90,0.85)$ & The rule increases support for the observed staging feature; it does not establish nodal spread by itself. \\
 TCGA & Extrathyroid extension & extrathyroid extension is Minimal (T3), Moderate/Advanced (T4a), or Very Advanced (T4b) & $(0.85,0.80)$ & The rule raises support only for an explicitly recorded extension category; missing, placeholder, and unknown values do not fire. \\
 WiDS & Lactate & maximum day-1 lactate >= 4.0 mmol/L & $(0.85,0.80)$ & The rule increases support for the lactate feature without diagnosing shock or determining mortality. \\
 WiDS & Hypotension & minimum day-1 systolic blood pressure <= 90 mmHg & $(0.75,0.70)$ & The rule increases support for the blood-pressure feature; it is not a stand-alone mortality decision. \\
